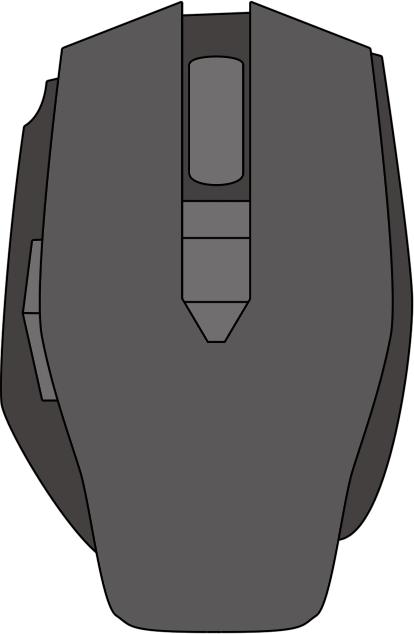
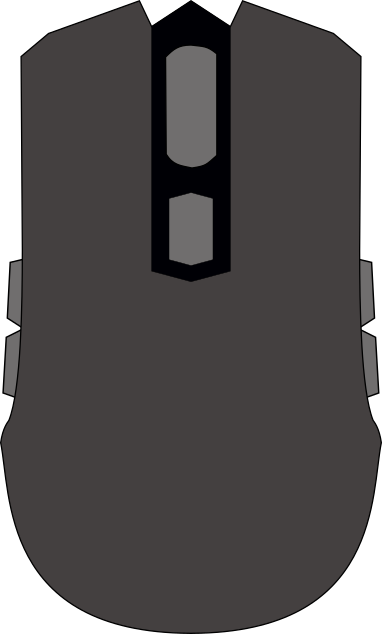
continue support for M75 wireless (wired mode only for now)
switches out overlay image with the one from M55 since it fits better than M65 (symmetrical)
make keymap include the right side forward/backward buttons to be rebindable
correctly set light zones

diff --git a/src/gui/keymap.cpp b/src/gui/keymap.cpp
@@ -327,11 +327,16 @@ static const Key M65Keys[] = {
 
 // Mouse map - M75
 static const Key M75Keys[] = {
-    {nullptr,  "Left Mouse", "mouse1", 8, 0, 14, 32, false, true}, {nullptr,  "Right Mouse", "mouse2", 30, 0, 14, 32, false, true}, {nullptr,  "Middle Mouse", "mouse3", 22, 8, 8, 7, false, true},
-    {nullptr,  "Wheel Up", "wheelup", 22, 4, 8, 5, false, true}, {nullptr,  "Wheel Down", "wheeldn", 22, 14, 8, 5, false, true}, {nullptr,  "Wheel Light", "front", 22, 15, 8, 8, true, false},
-    {nullptr,  "DPI Up", "dpiup", 22, 19, 8, 6, false, true}, {nullptr,  "DPI Light", "dpi", 22, 24, 8, 8, true, false}, {nullptr,  "DPI Down", "dpidn", 22, 31, 8, 6, false, true},
-    {nullptr,  "Forward", "mouse5", 5, 24, 5, 9, false, true}, {nullptr,  "Back", "mouse4", 5, 33, 5, 10, false, true}, {nullptr,  "Sniper", "sniper", 0, 25, 5, 15, false, true},
-    {nullptr,  "Logo", "back", 20, 54, 12, 12, true, false}
+    {nullptr,  "Left Mouse",       "mouse1",    8,  4, 14, 18, false, true},
+    {nullptr,  "Right Mouse",      "mouse2",   31,  4, 14, 18, false, true},
+    {nullptr,  "Middle Mouse",     "mouse3",   24,  6,  7,  8, false, true},
+    {nullptr,  "Wheel Up",         "wheelup",  24,  3,  7,  5, false, true},
+    {nullptr,  "Wheel Down",       "wheeldn",  24, 13,  7,  5, false, true},
+    {nullptr,  "Forward",          "mouse5",    6, 24,  5, 10, false, true},
+    {nullptr,  "Back",             "mouse4",    6, 33,  5, 10, false, true},
+    {nullptr,  "Forward (R)",      "mouse6",   43, 24,  5, 10, false, true},
+    {nullptr,  "Back (R)",         "mouse7",   43, 33,  5, 10, false, true},
+    {nullptr,  "Logo",             "front",    21, 50, 12, 12, true,  false}
 };
 #define KEYCOUNT_M75    (sizeof(M75Keys) / sizeof(Key))
 
@@ -1910,6 +1915,8 @@ int KeyMap::modelWidth(Model model){
     case GLAIVEPRO:
     case IRONCLAW_W:
         return M65_WIDTH;
+    case M75:
+        return M75_WIDTH;
     case MM700:
         return MM700_WIDTH;
     default:
@@ -1965,6 +1972,8 @@ int KeyMap::modelHeight(Model model){
     case NIGHTSWORD:
     case GLAIVEPRO:
         return M65_HEIGHT;
+    case M75:
+        return M75_HEIGHT;
     case IRONCLAW_W:
         return M65_HEIGHT;
     case MM700:

diff --git a/src/daemon/usb.h b/src/daemon/usb.h
@@ -124,8 +124,9 @@
 #define P_M65_RGB_ELITE      0x1b5a
 #define IS_M65(kb)           ((kb)->vendor == V_CORSAIR && ((kb)->product == P_M65 || (kb)->product == P_M65_PRO || (kb)->product == P_M65_RGB_ELITE))
 
-#define P_M75                0x2b08
-#define IS_M75(kb)           ((kb)->vendor == V_CORSAIR && (kb)->product == P_M75)
+#define P_M75                0x1bf1 /* wired */
+#define P_M75_SLIP           0x1bdc /* slipstream dongle, same between M75 Air and M75 Wireless */
+#define IS_M75(kb)           ((kb)->vendor == V_CORSAIR && ((kb)->product == P_M75 || (kb)->product == P_M75_SLIP))
 
 #define P_M95                0x1b06
 
@@ -320,7 +321,6 @@ const char* product_str(ushort product);
 
 // Used for devices that have the scroll wheel packet in the hardware hid packet only
 #define SW_PKT_HAS_NO_WHEEL(kb)                     ((kb)->vendor == V_CORSAIR && ((kb)->product == P_M55_RGB_PRO || (kb)->product == P_KATAR_PRO_XT || (kb)->product == P_KATAR_PRO || (kb)->product == P_SCIMITAR_ELITE_BRAGI || (kb)->product == P_M75))
-#define SW_PKT_HAS_NO_WHEEL(kb)                     ((kb)->vendor == V_CORSAIR && ((kb)->product == P_M55_RGB_PRO || (kb)->product == P_KATAR_PRO_XT || (kb)->product == P_KATAR_PRO))
 
 // For devices that have the new short HID report (6 bytes)
 #define USES_BRAGI_SHORT_REPORT(kb)                 ((kb)->vendor == (V_CORSAIR) && ((kb)->product == P_SCIMITAR_ELITE_BRAGI))

diff --git a/src/daemon/keymap_patch.c b/src/daemon/keymap_patch.c
@@ -18,6 +18,11 @@ static const keypatch m55patch[] = {
     { 237+20, "dpi",    LED_MOUSE, KEY_NONE },
 };
 
+static const keypatch m75patch[] = {
+    { 210+20, "mouse6", -1,        KEY_CORSAIR },
+    { 211+20, "mouse7", -1,        KEY_CORSAIR },
+};
+
 static const keypatch m95patch[] = {
     { 208+20, "mouse7", -1, SCAN_MOUSE | BTN_BACK },
     { 209+20, "mouse6", -1, SCAN_MOUSE | BTN_FORWARD },
@@ -141,6 +146,7 @@ static const keypatches mappatches[] = {
     ADD_PATCH(V_CORSAIR, P_K68_NRGB,     k63patch),
     ADD_PATCH(V_CORSAIR, P_K63_NRGB,     k63patch),
     ADD_PATCH(V_CORSAIR, P_M55_RGB_PRO,  m55patch),
+    ADD_PATCH(V_CORSAIR, P_M75,          m75patch),
     ADD_PATCH(V_CORSAIR, P_M95,          m95patch),
     ADD_PATCH(V_CORSAIR, P_IRONCLAW_W_U, icwpatch),
     ADD_PATCH(V_CORSAIR, P_HARPOON_WL_U, harpoonwlpatch),

diff --git a/src/gui/keywidget.cpp b/src/gui/keywidget.cpp
@@ -138,6 +138,10 @@ void KeyWidget::map(const KeyMap& newMap){
             _currentOverlay.load(":/img/overlay_m65.png");
             _overlayPos.setX(2.f);
             break;
+        case KeyMap::M75:
+            _currentOverlay.load(":/img/overlay_m75.png");
+            _overlayPos.setX(5.7f);
+            break;
         case KeyMap::SABRE:
             _currentOverlay.load(":/img/overlay_sabre.png");
             _overlayPos.setX(1.f);

diff --git a/src/gui/keymap.h b/src/gui/keymap.h
@@ -61,7 +61,6 @@ public:
         K95P,
         STRAFE,
         M65,
-        M75,
         SABRE,
         SCIMITAR,
         HARPOON,
@@ -95,6 +94,7 @@ public:
         MM700,
         K70_PRO,
         K70_CORE_RGB,
+        M75,
         _MODEL_MAX
     };
     // Key layouts (ordered alphabetically by name)
